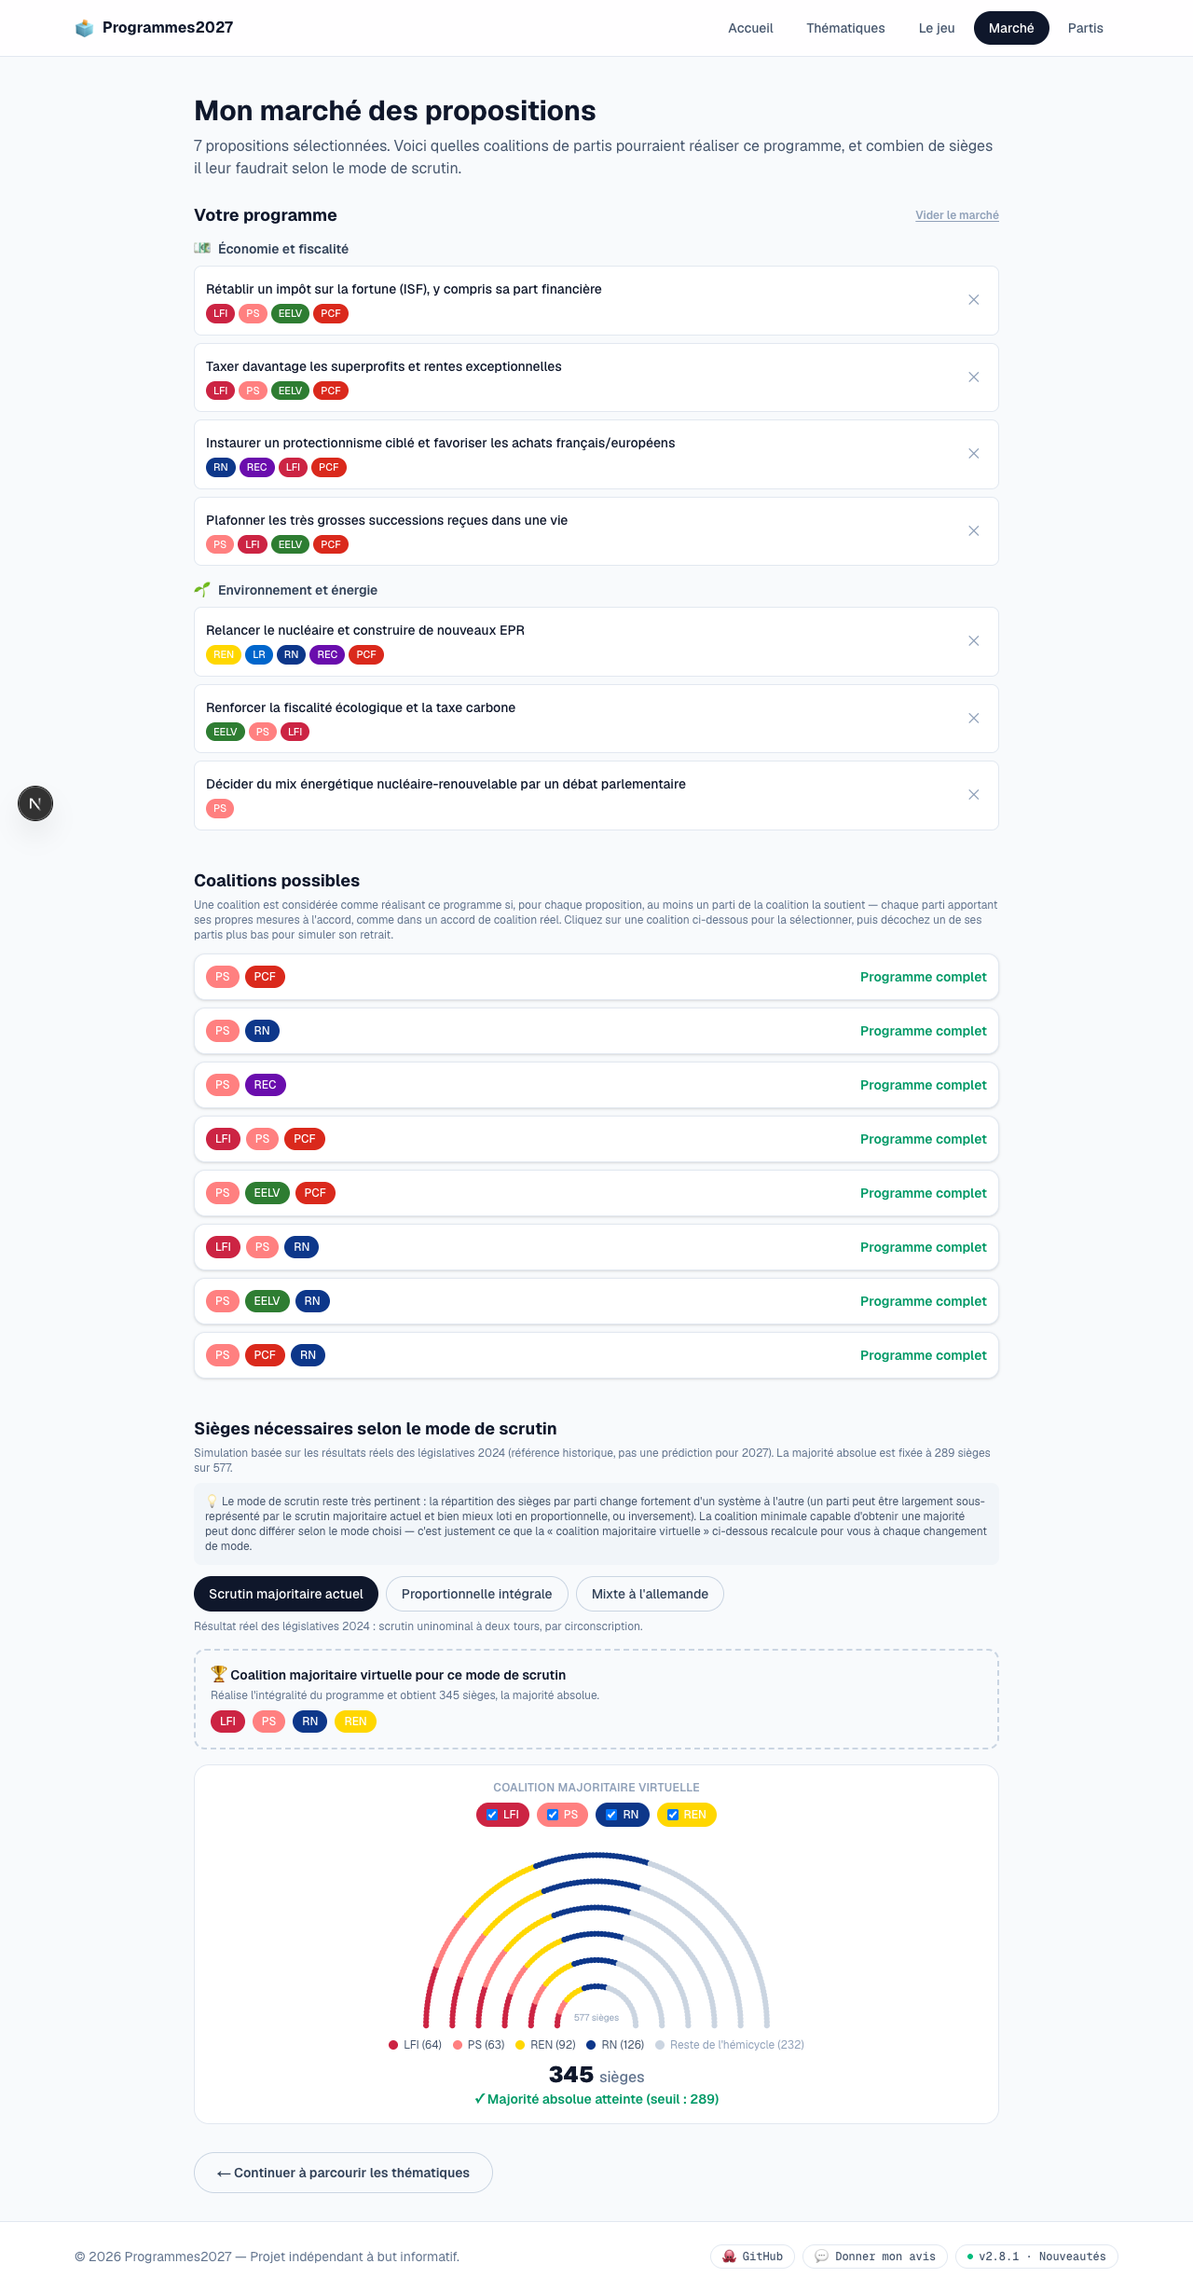
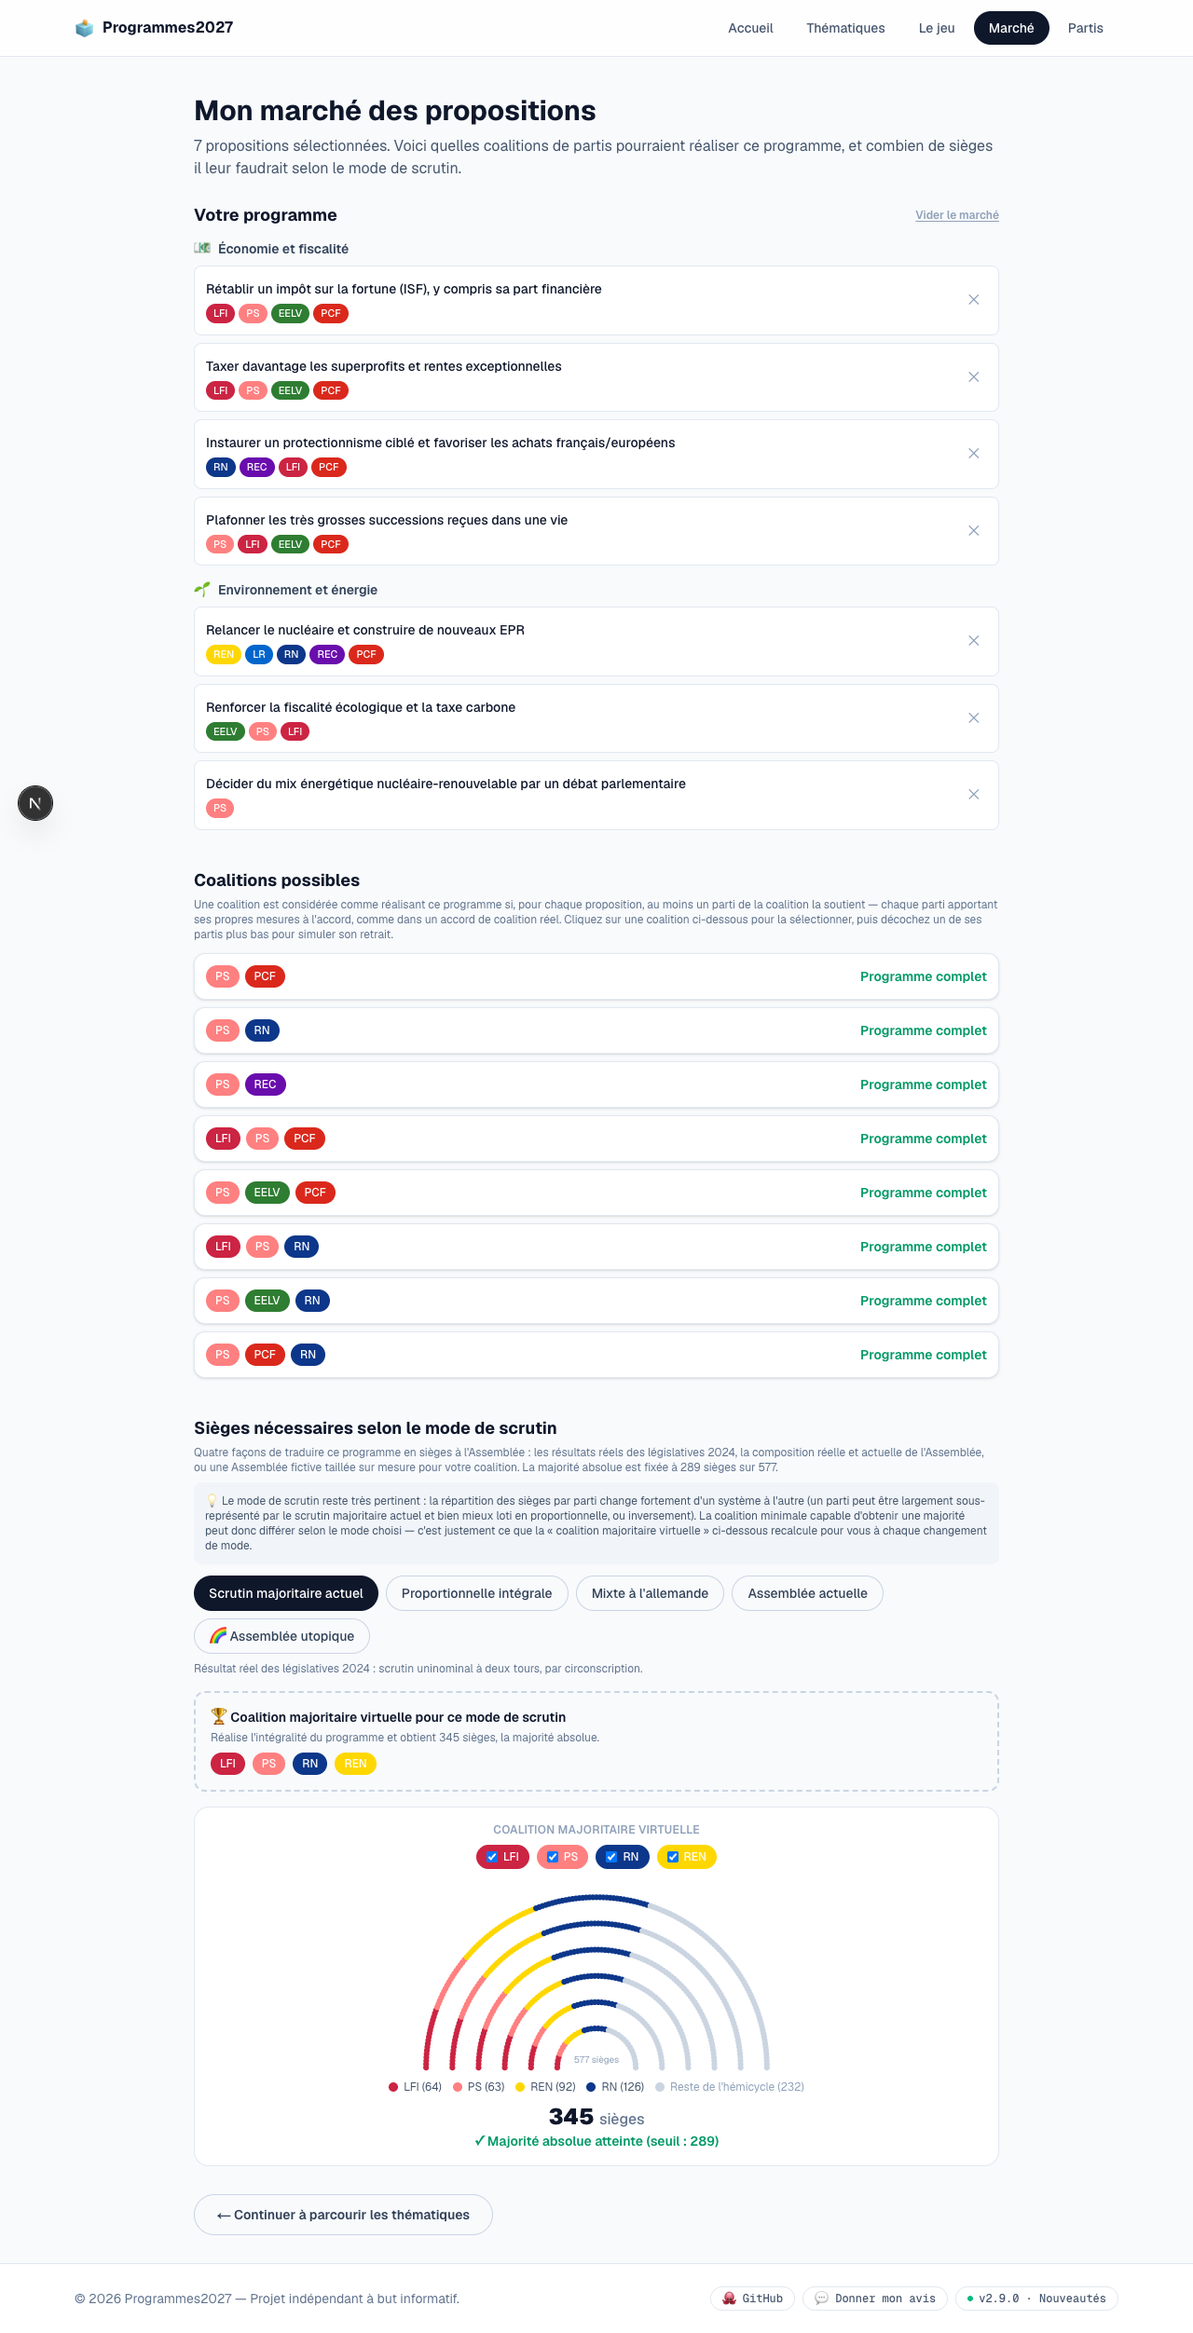
Add current-assembly and utopian electoral system modes to coalition simulator

diff --git a/src/components/CoalitionExplorer.tsx b/src/components/CoalitionExplorer.tsx
@@ -10,6 +10,7 @@ import {
   PartyCompatibility,
   TOTAL_SEATS,
   computeSeats,
+  computeUtopianSeats,
   findCoalitions,
   coalitionSeats,
   findVirtualMajority,
@@ -157,8 +158,10 @@ export function CoalitionExplorer({
             Sièges nécessaires selon le mode de scrutin
           </h2>
           <p className="mt-1 text-xs text-slate-500">
-            Simulation basée sur les résultats réels des législatives 2024
-            (référence historique, pas une prédiction pour 2027). La
+            Quatre façons de traduire ce programme en sièges à
+            l&apos;Assemblée : les résultats réels des législatives 2024,
+            la composition réelle et actuelle de l&apos;Assemblée, ou une
+            Assemblée fictive taillée sur mesure pour votre coalition. La
             majorité absolue est fixée à {MAJORITY_THRESHOLD} sièges sur{" "}
             {TOTAL_SEATS}.
             {partyCompatibility &&
@@ -196,50 +199,69 @@ export function CoalitionExplorer({
           </p>
 
           {/* Virtual majority coalition for the current system */}
-          <div className="mt-4 rounded-xl border-2 border-dashed border-slate-300 bg-slate-50 p-4">
-            <h3 className="text-sm font-semibold text-slate-900">
-              🏆 Coalition majoritaire virtuelle pour ce mode de scrutin
-            </h3>
-            {virtualMajority ? (
-              <>
-                <p className="mt-1 text-xs text-slate-500">
-                  {virtualMajority.coalition.isFullCoverage
-                    ? "Réalise l'intégralité du programme"
-                    : `Réalise ${virtualMajority.coalition.coveragePercent}% du programme (${virtualMajority.coalition.coveredCount}/${virtualMajority.coalition.totalCount})`}
-                  {" "}et obtient {virtualMajority.seats} sièges, la majorité
-                  absolue.
-                </p>
-                <div className="mt-2 flex flex-wrap items-center gap-2">
-                  {virtualMajority.coalition.parties.map((pid) => (
-                    <span
-                      key={pid}
-                      className="rounded-full px-2.5 py-1 text-xs font-medium text-white"
-                      style={{ backgroundColor: partyById[pid as PartyId].color }}
-                    >
-                      {partyById[pid as PartyId].shortName}
-                    </span>
-                  ))}
-                  {manualCoalitionIndex !== null && (
-                    <button
-                      onClick={() => setManualCoalitionIndex(null)}
-                      className="ml-2 rounded-full border border-slate-900 px-3 py-1 text-xs font-semibold text-slate-900 hover:bg-slate-900 hover:text-white"
-                    >
-                      Utiliser cette coalition ↓
-                    </button>
-                  )}
-                </div>
-              </>
-            ) : (
-              <p className="mt-1 text-xs text-rose-600">
-                Aucune coalition des partis soutenant ce programme
-                n&apos;atteint la majorité absolue sous ce mode de scrutin,
-                même en réunissant tous les partis pertinents.
+          {system === "utopique" ? (
+            <div className="mt-4 rounded-xl border-2 border-dashed border-slate-300 bg-slate-50 p-4">
+              <h3 className="text-sm font-semibold text-slate-900">
+                🌈 Mode utopique : la majorité est garantie par construction
+              </h3>
+              <p className="mt-1 text-xs text-slate-500">
+                Dans ce mode, on ne cherche pas la plus petite coalition
+                capable d&apos;obtenir la majorité : elle l&apos;obtient
+                toujours, puisqu&apos;on invente une Assemblée sur mesure
+                rien que pour ça. La coalition affichée ci-dessous est
+                celle sélectionnée dans la liste plus haut — décochez un de
+                ses partis pour voir ce que ça change.
               </p>
-            )}
-          </div>
+            </div>
+          ) : (
+            <div className="mt-4 rounded-xl border-2 border-dashed border-slate-300 bg-slate-50 p-4">
+              <h3 className="text-sm font-semibold text-slate-900">
+                🏆 Coalition majoritaire virtuelle pour ce mode de scrutin
+              </h3>
+              {virtualMajority ? (
+                <>
+                  <p className="mt-1 text-xs text-slate-500">
+                    {virtualMajority.coalition.isFullCoverage
+                      ? "Réalise l'intégralité du programme"
+                      : `Réalise ${virtualMajority.coalition.coveragePercent}% du programme (${virtualMajority.coalition.coveredCount}/${virtualMajority.coalition.totalCount})`}
+                    {" "}et obtient {virtualMajority.seats} sièges, la majorité
+                    absolue.
+                  </p>
+                  <div className="mt-2 flex flex-wrap items-center gap-2">
+                    {virtualMajority.coalition.parties.map((pid) => (
+                      <span
+                        key={pid}
+                        className="rounded-full px-2.5 py-1 text-xs font-medium text-white"
+                        style={{ backgroundColor: partyById[pid as PartyId].color }}
+                      >
+                        {partyById[pid as PartyId].shortName}
+                      </span>
+                    ))}
+                    {manualCoalitionIndex !== null && (
+                      <button
+                        onClick={() => setManualCoalitionIndex(null)}
+                        className="ml-2 rounded-full border border-slate-900 px-3 py-1 text-xs font-semibold text-slate-900 hover:bg-slate-900 hover:text-white"
+                      >
+                        Utiliser cette coalition ↓
+                      </button>
+                    )}
+                  </div>
+                </>
+              ) : (
+                <p className="mt-1 text-xs text-rose-600">
+                  Aucune coalition des partis soutenant ce programme
+                  n&apos;atteint la majorité absolue sous ce mode de scrutin,
+                  même en réunissant tous les partis pertinents.
+                </p>
+              )}
+            </div>
+          )}
 
           {(() => {
-            const { seatsByParty, otherSeats } = computeSeats(system);
+            const { seatsByParty, otherSeats } =
+              system === "utopique"
+                ? computeUtopianSeats(remainingParties)
+                : computeSeats(system);
             const seats = coalitionSeats(remainingParties, system, partyCompatibility);
             const rawSeats = coalitionSeats(remainingParties, system);
             const hasMajority = seats >= MAJORITY_THRESHOLD;
@@ -286,6 +308,8 @@ export function CoalitionExplorer({
                     Décochez un parti pour simuler son retrait de la
                     coalition sélectionnée et voir ce qui ne pourrait plus
                     être réalisé sans lui.
+                    {system === "utopique" &&
+                      " En mode utopique, le reste des partis obtient de toute façon la majorité (l'Assemblée est reconstruite sur mesure) : c'est la liste des propositions perdues ci-dessous qui montre le vrai impact du retrait."}
                   </p>
                 )}
 
@@ -302,6 +326,13 @@ export function CoalitionExplorer({
                   <p className="text-center text-xs text-slate-400">
                     ({rawSeats} sièges réels, pondérés à {seats} selon votre
                     compatibilité avec chaque parti)
+                  </p>
+                )}
+                {system === "utopique" && (
+                  <p className="text-center text-xs text-slate-400">
+                    Assemblée fictive : les {TOTAL_SEATS - MAJORITY_THRESHOLD}{" "}
+                    autres sièges (en gris) ne sont attribués à aucun parti
+                    réel.
                   </p>
                 )}
                 <p

diff --git a/src/lib/electoralSystems.ts b/src/lib/electoralSystems.ts
@@ -6,8 +6,18 @@ import {
   OTHER_VOTE_SHARE_2024,
   TOTAL_SEATS,
 } from "@/lib/data/electionResults2024";
+import {
+  CURRENT_ASSEMBLY_DATE,
+  CURRENT_ASSEMBLY_OTHER_SEATS,
+  CURRENT_ASSEMBLY_SEATS_BY_PARTY,
+} from "@/lib/data/currentAssembly";
 
-export type ElectoralSystemId = "majoritaire" | "proportionnelle" | "mixte";
+export type ElectoralSystemId =
+  | "majoritaire"
+  | "proportionnelle"
+  | "mixte"
+  | "actuelle"
+  | "utopique";
 
 export interface ElectoralSystem {
   id: ElectoralSystemId;
@@ -33,6 +43,17 @@ export const ELECTORAL_SYSTEMS: ElectoralSystem[] = [
     name: "Mixte à l'allemande",
     shortDescription:
       "Moitié des sièges par circonscription, moitié en compensation proportionnelle nationale (méthode D'Hondt), seuil de 5% des voix OU 3 mandats directs (règle réellement utilisée en Allemagne).",
+  },
+  {
+    id: "actuelle",
+    name: "Assemblée actuelle",
+    shortDescription: `Composition réelle et actuelle de l'Assemblée nationale (groupes parlementaires au ${CURRENT_ASSEMBLY_DATE}), qui a évolué depuis les élections de 2024 (scissions, nouveaux groupes...).`,
+  },
+  {
+    id: "utopique",
+    name: "🌈 Assemblée utopique",
+    shortDescription:
+      "Feuille blanche : on ignore la réalité électorale et on invente une Assemblée sur mesure, où la coalition sélectionnée ci-dessous obtient tout juste la majorité absolue, chaque parti au prorata de son poids électoral 2024 — le reste des sièges est affiché en gris, sans couleur de parti.",
   },
 ];
 
@@ -140,6 +161,19 @@ export function computeMixteSeats(): SeatSimulationResult {
   return { seatsByParty, otherSeats: allocated["autres"] ?? 0 };
 }
 
+/**
+ * The current, present-day balance of power in the Assemblée nationale
+ * — distinct from `computeMajoritaireSeats`, which reflects the 2024
+ * election results as they stood on election night. See
+ * `src/lib/data/currentAssembly.ts` for sourcing and the snapshot date.
+ */
+export function computeActuelleSeats(): SeatSimulationResult {
+  return {
+    seatsByParty: { ...CURRENT_ASSEMBLY_SEATS_BY_PARTY },
+    otherSeats: CURRENT_ASSEMBLY_OTHER_SEATS,
+  };
+}
+
 export function computeSeats(system: ElectoralSystemId): SeatSimulationResult {
   switch (system) {
     case "majoritaire":
@@ -148,6 +182,14 @@ export function computeSeats(system: ElectoralSystemId): SeatSimulationResult {
       return computeProportionnelleSeats();
     case "mixte":
       return computeMixteSeats();
+    case "actuelle":
+      return computeActuelleSeats();
+    case "utopique":
+      // The "utopian" system has no fixed seat map: it's entirely built
+      // around whichever coalition is selected. Callers that need a
+      // hemicycle for this mode must use `computeUtopianSeats(parties)`
+      // directly instead of this generic dispatcher.
+      return { seatsByParty: {}, otherSeats: TOTAL_SEATS };
   }
 }
 
@@ -233,16 +275,73 @@ export function findCoalitions(
 export type PartyCompatibility = Partial<Record<PartyId, number>>;
 
 /**
+ * "Utopian / blank slate" mode: instead of reflecting any real election
+ * or the current Assembly, this builds a fictional 577-seat Assembly
+ * from scratch where the given coalition holds exactly enough seats to
+ * reach the absolute majority (`MAJORITY_THRESHOLD`) — no more, no less
+ * — and every other seat is left as an unattributed grey "reste" bloc
+ * (deliberately not tied to any real party, per the "blank slate" idea).
+ *
+ * Seats within the coalition are split proportionally to each party's
+ * real 2024 national vote share (not its real seat count, which can be
+ * distorted by the majoritarian system) — so a party with a small but
+ * real electorate (e.g. Reconquête) still gets a small, non-zero share
+ * instead of being wiped out the way it was by the real 2024 result.
+ * Uses the largest-remainder method so the total always lands exactly
+ * on `MAJORITY_THRESHOLD`.
+ */
+export function computeUtopianSeats(parties: PartyId[]): SeatSimulationResult {
+  if (parties.length === 0) {
+    return { seatsByParty: {}, otherSeats: TOTAL_SEATS };
+  }
+
+  const weights = parties.map((id) =>
+    Math.max(ELECTION_2024_BY_PARTY[id].voteShare2024, 0.1)
+  );
+  const totalWeight = weights.reduce((sum, w) => sum + w, 0);
+
+  const rawShares = weights.map((w) => (w / totalWeight) * MAJORITY_THRESHOLD);
+  const floors = rawShares.map(Math.floor);
+  let assigned = floors.reduce((sum, f) => sum + f, 0);
+
+  const remainders = rawShares
+    .map((r, i) => ({ i, frac: r - floors[i] }))
+    .sort((a, b) => b.frac - a.frac);
+
+  let cursor = 0;
+  while (assigned < MAJORITY_THRESHOLD) {
+    floors[remainders[cursor % remainders.length].i] += 1;
+    assigned += 1;
+    cursor += 1;
+  }
+
+  const seatsByParty: SeatsByParty = {};
+  parties.forEach((id, i) => {
+    seatsByParty[id] = floors[i];
+  });
+
+  return { seatsByParty, otherSeats: TOTAL_SEATS - MAJORITY_THRESHOLD };
+}
+
+/**
  * Total seats a coalition would hold under a given electoral system. If
  * `compatibility` is provided, each party's seats are weighted by its
  * compatibility percentage (see `PartyCompatibility`) instead of counted
  * in full — the result is rounded to the nearest seat.
+ *
+ * Under the "utopian" system, this is trivially `MAJORITY_THRESHOLD` by
+ * construction (see `computeUtopianSeats`) — compatibility weighting
+ * doesn't apply here, since the whole point of that mode is that the
+ * coalition you pick gets exactly a majority.
  */
 export function coalitionSeats(
   parties: PartyId[],
   system: ElectoralSystemId,
   compatibility?: PartyCompatibility
 ): number {
+  if (system === "utopique") {
+    return parties.length === 0 ? 0 : MAJORITY_THRESHOLD;
+  }
   const { seatsByParty } = computeSeats(system);
   const total = parties.reduce((sum, id) => {
     const raw = seatsByParty[id] ?? 0;

diff --git a/src/lib/data/currentAssembly.ts b/src/lib/data/currentAssembly.ts
@@ -1,0 +1,46 @@
+import { PartyId } from "@/lib/types";
+import { TOTAL_SEATS } from "@/lib/data/electionResults2024";
+
+/**
+ * Current composition of the XVIIe législature of the Assemblée
+ * nationale, i.e. the actual, present-day balance of power — NOT the raw
+ * 2024 election results, which have shifted since then (party splits,
+ * new parliamentary groups, defections, by-elections...).
+ *
+ * Source (Wikipédia, « Assemblée nationale (France) », composition
+ * infobox, as of 14 October 2025 — the most recent group breakdown
+ * available; kept as a static snapshot rather than fetched live):
+ * - EPR (Ensemble pour la République, ex-Renaissance): 90
+ * - DR (Droite républicaine, ex-LR): 48
+ * - RN (Rassemblement national): 122
+ * - LFI-NFP (La France insoumise): 71
+ * - SOC (Socialiste): 68
+ * - EcoS (Écologiste, ex-EELV): 38
+ * - GDR (Gauche démocrate et républicaine, ex-PCF): 17
+ * - DEM (Les Démocrates, MoDem), HOR (Horizons), LIOT, UDR (Union des
+ *   droites pour la République, Éric Ciotti's group) and non-inscrits:
+ *   not one of our 8 tracked parties, counted as "autres".
+ *
+ * Mapping to our tracked party IDs is direct for the 7 groups that are
+ * a continuation of a tracked party (Reconquête currently holds no
+ * seat, same as after the 2024 election).
+ */
+export const CURRENT_ASSEMBLY_DATE = "14 octobre 2025";
+
+export const CURRENT_ASSEMBLY_SEATS_BY_PARTY: Record<PartyId, number> = {
+  lfi: 71,
+  ps: 68,
+  eelv: 38,
+  pcf: 17,
+  renaissance: 90,
+  lr: 48,
+  rn: 122,
+  reconquete: 0,
+};
+
+const TRACKED_CURRENT_SEATS = Object.values(
+  CURRENT_ASSEMBLY_SEATS_BY_PARTY
+).reduce((sum, s) => sum + s, 0);
+
+/** DEM (37) + HOR (36) + LIOT (23) + UDR (17) + non-inscrits (10) = 123. */
+export const CURRENT_ASSEMBLY_OTHER_SEATS = TOTAL_SEATS - TRACKED_CURRENT_SEATS;

diff --git a/README.md b/README.md
@@ -90,9 +90,14 @@ partis pour construire votre propre programme, puis découvrez :
   coalition réel) ;
 - combien de **sièges à l'Assemblée nationale** cette coalition
   obtiendrait selon le mode de scrutin — scrutin majoritaire actuel
-  (résultats réels des législatives 2024), proportionnelle intégrale, ou
-  scrutin mixte à l'allemande — visualisés dans un hémicycle, comparés
-  au seuil de majorité absolue (289 sièges sur 577) ;
+  (résultats réels des législatives 2024), proportionnelle intégrale,
+  scrutin mixte à l'allemande, **composition actuelle et à jour de
+  l'Assemblée** (qui a évolué depuis 2024 : scissions, nouveaux
+  groupes...), ou **Assemblée utopique** (feuille blanche qui ignore la
+  réalité électorale et reconstruit une Assemblée fictive où la
+  coalition sélectionnée obtient tout juste la majorité absolue, le
+  reste des sièges étant affiché en gris) — visualisés dans un
+  hémicycle, comparés au seuil de majorité absolue (289 sièges sur 577) ;
 - la **coalition majoritaire virtuelle** : la plus petite coalition
   capable à la fois de réaliser le programme et d'atteindre la majorité
   absolue *sous le mode de scrutin choisi* — recalculée et affichée par
